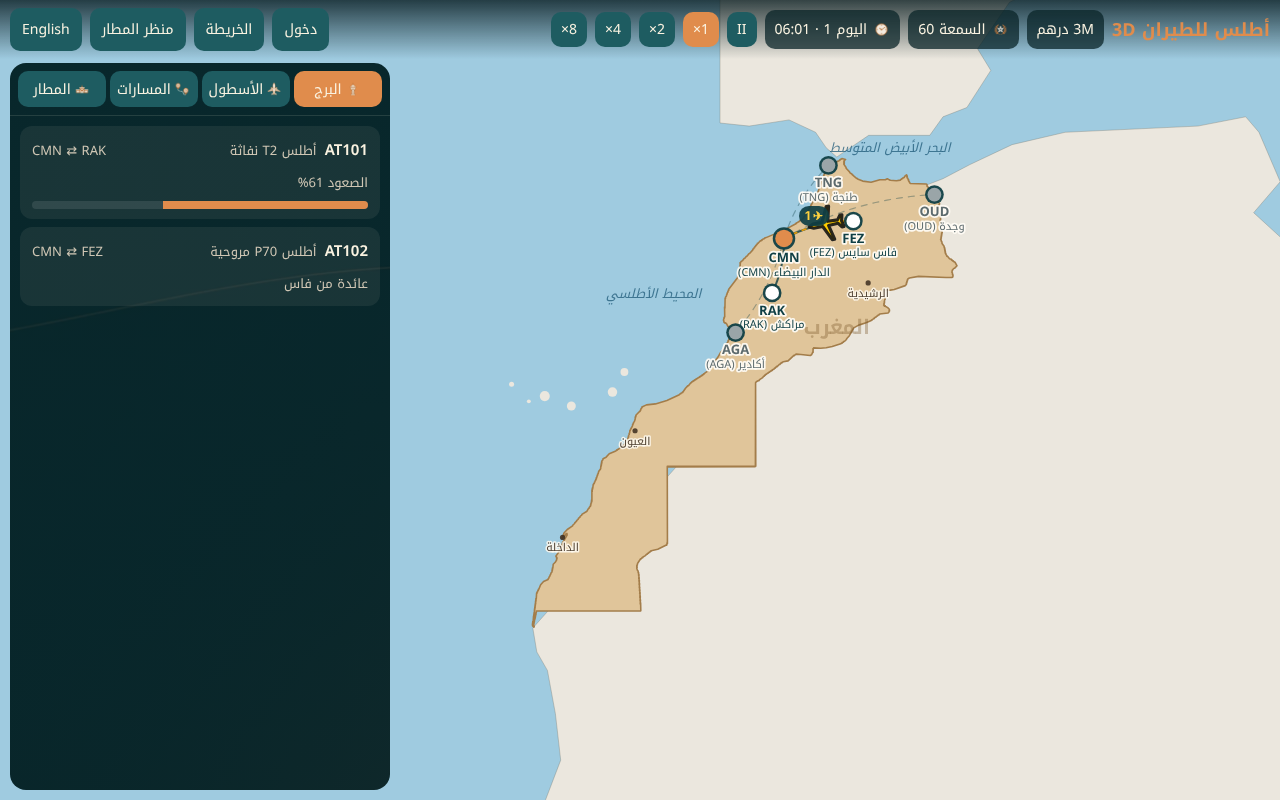
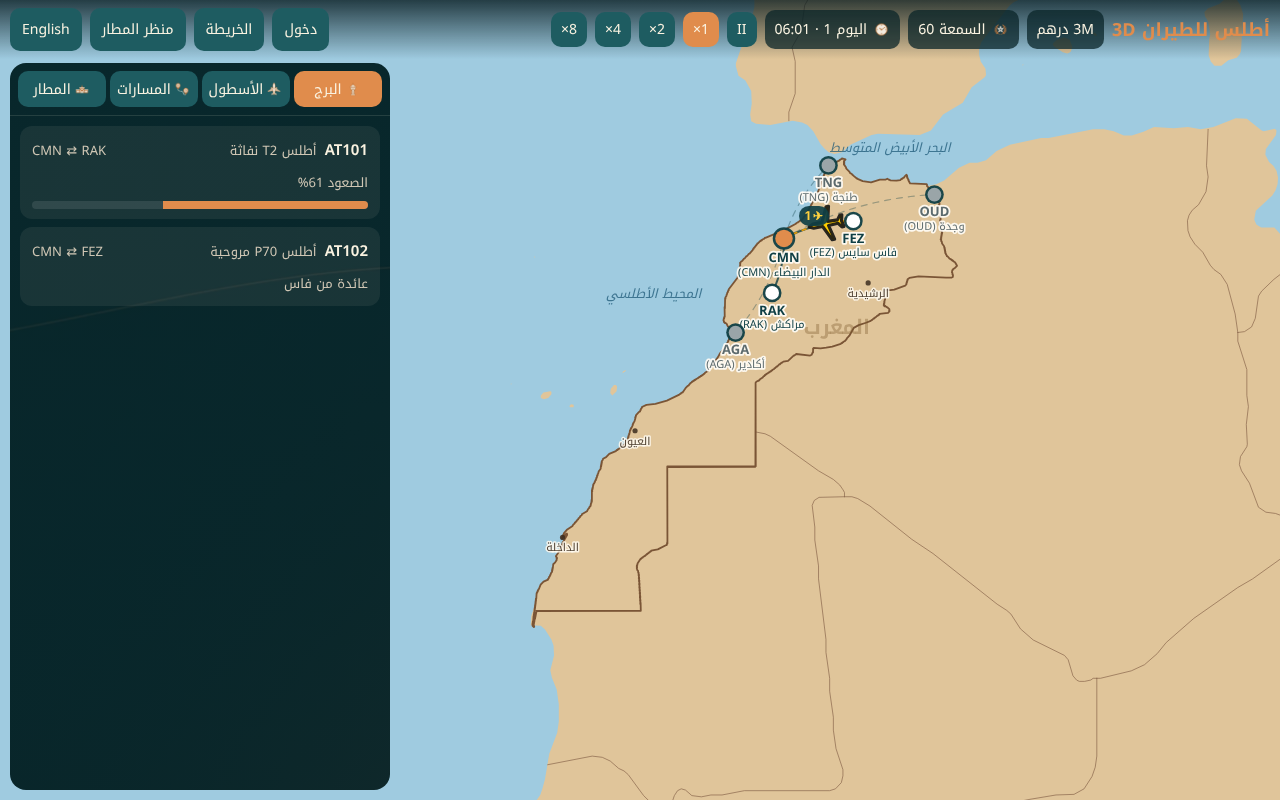
Flight map: world coastlines and country borders vectorized from the owner's world map (lon -60..70, lat -10..72); Morocco keeps its detailed outline on top, neighbours meet it without gaps
Claude-Session: https://claude.ai/code/session_01RoqHu2TiYBxYCF6HuHvMh8

diff --git a/web/js/flightmap.js b/web/js/flightmap.js
@@ -18,7 +18,7 @@ const ARC = 0.12;
 const smooth = (a, b, x) => { const k = Math.min(Math.max((x - a) / (b - a), 0), 1); return k * k * (3 - 2 * k); };
 const PLANE = new Path2D('M0,-0.5 L0.06,-0.38 L0.06,-0.12 L0.48,0.08 L0.48,0.15 L0.06,0.05 L0.05,0.33 L0.17,0.42 L0.17,0.48 L0,0.44 L-0.17,0.48 L-0.17,0.42 L-0.05,0.33 L-0.06,0.05 L-0.48,0.15 L-0.48,0.08 L-0.06,-0.12 L-0.06,-0.38 Z');
 const OUT_STATES = ['ready', 'pushback', 'taxi_out', 'holding', 'lineup', 'takeoff'];
-const C = { sea: '#9fcbe0', land: '#ebe7de', morocco: '#e0c59a', border: '#a37d4a', route: 'rgba(15,63,69,0.8)', routeOff: 'rgba(15,63,69,0.35)',
+const C = { sea: '#9fcbe0', land: '#e0c59a', morocco: '#e0c59a', border: '#7a5536', countryLine: 'rgba(140,104,78,0.9)', route: 'rgba(15,63,69,0.8)', routeOff: 'rgba(15,63,69,0.35)',
   trail: '#e89b00', plane: '#ffcc00', planeSel: '#ff7a1a', ground: '#d9dee0' };
 
 /** Quadratic arc between two 2D points [x, y] at k in [0, 1]: point and tangent. Bulges to one side so both legs share it. */
@@ -33,7 +33,7 @@ export class FlightMap {
   constructor(canvas, sim) {
     this.cv = canvas; this.g = canvas.getContext('2d'); this.sim = sim;
     this.alpha = 0; this.far = 0; this.hits = []; this.v = new THREE.Vector3();
-    this.geo = new Geo(DB.mapOutline);
+    this.geo = new Geo(DB.mapOutline, DB.world);
     this.km = {}; for (const a of Object.values(DB.airports)) this.km[a.code] = toKm(a.lonlat);
   }
   resize(w, h) {
@@ -132,10 +132,13 @@ export class FlightMap {
       if (fill) { g.fillStyle = fill; g.fill(); } if (stroke) { g.strokeStyle = stroke; g.lineWidth = lw; g.lineJoin = 'round'; g.stroke(); }
     };
     g.fillStyle = C.sea; g.fillRect(0, 0, this.W, this.H);
-    poly(this.geo.neighbours, C.land, 'rgba(120,120,110,0.35)', 1);
-    poly(this.geo.spain, C.land, 'rgba(120,120,110,0.35)', 1);
-    for (const c of this.geo.canaries) { const [x, y] = P(c.c); g.beginPath(); g.arc(x, y, c.r * V.s, 0, Math.PI * 2); g.fillStyle = C.land; g.fill(); }
-    poly(this.geo.morocco, C.morocco, C.border, 1.6);
+    // World land (all coast loops in one even-odd path: lakes and seas inside land stay open), country borders.
+    g.beginPath();
+    for (const loop of this.geo.coast) loop.forEach((p, i) => { const [x, y] = P(p); i ? g.lineTo(x, y) : g.moveTo(x, y); });
+    g.fillStyle = C.land; g.fill('evenodd');
+    g.strokeStyle = C.countryLine; g.lineWidth = 0.8; g.lineJoin = 'round';
+    for (const l of this.geo.borders) { g.beginPath(); l.forEach((p, i) => { const [x, y] = P(p); i ? g.lineTo(x, y) : g.moveTo(x, y); }); g.stroke(); }
+    poly(this.geo.morocco, C.morocco, C.border, 1.8);
 
     // Labels: seas, country, cities.
     g.textAlign = 'center'; g.textBaseline = 'middle';

diff --git a/web/js/geo.js b/web/js/geo.js
@@ -1,17 +1,10 @@
-// Geography for the flight map: Morocco's outline (data/maps/morocco.json, traced
-// from the owner's map), the surrounding sea and land, cities, and a flat
+// Geography for the flight map: Morocco's outline (data/maps/morocco.json) and the world's
+// coasts and borders (data/maps/world.json), both traced from the owner's maps, cities, and a flat
 // projection to kilometres (equirectangular around 31.5°N, accurate to a few %).
 const LAT0 = 31.5, LON0 = -7.6, KX = 111.32 * Math.cos(LAT0 * Math.PI / 180), KY = 110.57;
 
 /** lon/lat (degrees) -> map kilometres (x east, y north). */
 export const toKm = ([lon, lat]) => [(lon - LON0) * KX, (lat - LAT0) * KY];
-
-// Coastlines of the neighbours, coarse (lon, lat). Only used as background.
-const SPAIN_PORTUGAL = [[-10, 46], [-10, 37.1], [-8.9, 37.0], [-7.4, 37.2], [-6.4, 36.8], [-6.0, 36.3], [-5.6, 36.0], [-5.35, 36.15], [-4.4, 36.7],
-  [-2.1, 36.7], [-1.6, 37.3], [-0.7, 37.6], [0.2, 38.8], [-0.3, 39.5], [0.9, 41.0], [3.2, 42.0], [3.2, 46]];
-const ALGERIA_COAST = [[-2.2, 35.1], [-1.6, 35.3], [-0.6, 35.75], [1.0, 36.4], [3.0, 36.8], [8, 37.0], [9.8, 37.3], [10.3, 36.8], [11.1, 35.2], [10.1, 34.2], [11.5, 33.1], [15.2, 32.3], [19.0, 30.3], [20.1, 32.0], [25, 31.6], [40, 31.6], [40, 0]];
-const MAURITANIA_COAST = [[-17.05, 20.77], [-16.9, 20.0], [-16.5, 19.4], [-16.2, 18.0], [-16.0, 16.5], [-16.8, 14.7], [-16.5, 10], [-13, 5], [40, 0]];
-const CANARIES = [[-13.6, 29.05, 14], [-14.05, 28.4, 17], [-15.6, 27.95, 16], [-16.6, 28.27, 18], [-17.2, 28.1, 7], [-17.85, 28.65, 9]];   // lon, lat, radius km
 
 export const CITIES = [
   { key: 'map_city_rabat', ll: [-6.84, 34.02], capital: true },
@@ -25,12 +18,10 @@ export const CITIES = [
 export const SEAS = [{ key: 'map_sea_atlantic', ll: [-12.5, 31.5] }, { key: 'map_sea_med', ll: [-3.6, 36.25] }];
 
 export class Geo {
-  constructor(outline) {
+  /** outline: Morocco (lon/lat); world: {coast: closed loops, borders: polylines} vectorized from the owner's world map. */
+  constructor(outline, world) {
     this.morocco = outline.map(toKm);
-    // Neighbouring land (Algeria, Mauritania): their coasts, closed far to the south-east and back to
-    // Saidia through Morocco's interior (Morocco is drawn on top, so its border is exact).
-    this.neighbours = [...ALGERIA_COAST, ...MAURITANIA_COAST.slice().reverse()].map(toKm);
-    this.spain = SPAIN_PORTUGAL.map(toKm);
-    this.canaries = CANARIES.map(([lo, la, r]) => ({ c: toKm([lo, la]), r }));
+    this.coast = (world ? world.coast : []).map(l => l.map(toKm));
+    this.borders = (world ? world.borders : []).map(l => l.map(toKm));
   }
 }

diff --git a/web/js/core.js b/web/js/core.js
@@ -15,7 +15,7 @@ async function getJSON(name) {
   throw new Error('Cannot load ' + name);
 }
 
-export const DB = { airports: {}, home: 'CMN', ty: null, types: {}, dests: {}, mapOutline: [] };
+export const DB = { airports: {}, home: 'CMN', ty: null, types: {}, dests: {}, mapOutline: [], world: null };
 const LANG = { ar: {}, en: {} };
 export const Loc = { current: 'ar', listeners: [] };
 
@@ -24,6 +24,7 @@ export async function loadAll() {
   DB.ty = await getJSON('data/tycoon.json');
   await loadModelSlots(getJSON);
   DB.mapOutline = (await getJSON('data/maps/morocco.json')).outline;
+  DB.world = await getJSON('data/maps/world.json');
   LANG.ar = await getJSON('localization/ar.json');
   LANG.en = await getJSON('localization/en.json');
   DB.home = world.home_airport;

diff --git a/tools/vectorize_world.py b/tools/vectorize_world.py
@@ -1,0 +1,124 @@
+import sys, json, numpy as np
+from collections import deque, defaultdict
+from PIL import Image
+src, out = sys.argv[1], sys.argv[2]
+a = np.asarray(Image.open(src).convert('RGBA')).astype(int); H, W = a.shape[:2]
+PPD = W / 360.0                                   # pixels per degree (equirectangular, full world)
+LON0, LON1, LAT0, LAT1 = -60, 70, -10, 72
+x0, x1 = int((LON0 + 180) * PPD), int((LON1 + 180) * PPD); y0, y1 = int((90 - LAT1) * PPD), int((90 - LAT0) * PPD)
+c = a[y0:y1, x0:x1]; h, w = c.shape[:2]
+opaque = c[..., 3] > 128
+border_px = opaque & (c[..., 0] < 205)
+land = np.zeros((h + 2, w + 2), bool); land[1:-1, 1:-1] = opaque          # 1 px sea frame closes every coast loop
+cty = np.zeros((h + 2, w + 2), bool); cty[1:-1, 1:-1] = opaque & ~border_px
+# label countries (4-connected) on land without border pixels
+lab = np.zeros(land.shape, np.int32); n = 0
+for yy, xx in zip(*np.nonzero(cty)):
+    if lab[yy, xx]: continue
+    n += 1; q = deque([(yy, xx)]); lab[yy, xx] = n
+    while q:
+        y, x = q.popleft()
+        for dy, dx in ((1, 0), (-1, 0), (0, 1), (0, -1)):
+            Y, X = y + dy, x + dx
+            if cty[Y, X] and not lab[Y, X]: lab[Y, X] = n; q.append((Y, X))
+# hand border pixels to a neighbouring country (dilation), so countries tile the land
+for _ in range(6):
+    miss = land & (lab == 0)
+    if not miss.any(): break
+    for dy, dx in ((1, 0), (-1, 0), (0, 1), (0, -1)):
+        sh = np.roll(np.roll(lab, dy, 0), dx, 1); take = miss & (lab == 0) & (sh > 0); lab[take] = sh[take]
+print('countries/islands labelled:', n)
+MOROCCO_POINTS = [(-7.59, 33.37), (-13.2, 27.15), (-15.93, 23.7), (-4.42, 31.93), (-6.84, 34.02), (-9.41, 30.33), (-11.67, 26.74)]
+mlabels = set()
+for lo, la in MOROCCO_POINTS:
+    X, Y = int((lo + 180) * PPD) - x0 + 1, int((90 - la) * PPD) - y0 + 1
+    win = lab[Y - 2:Y + 3, X - 2:X + 3]; v = win[win > 0]
+    if v.size: mlabels.add(int(np.bincount(v).argmax()))
+print('Morocco labels in the world image:', sorted(mlabels))
+hole = np.isin(lab, list(mlabels)); lab[hole] = 0; land[hole] = False
+for _ in range(3):                                 # neighbours (Algeria, Mauritania) close the gap to Morocco's outline
+    for dy, dx in ((1, 0), (-1, 0), (0, 1), (0, -1)):
+        sh = np.roll(np.roll(lab, dy, 0), dx, 1); take = hole & (lab == 0) & (sh > 0); lab[take] = sh[take]; land[take] = True
+# edges on the pixel-corner lattice; coast edges are directed with land on the left (y down)
+coast, bord = defaultdict(list), defaultdict(list)
+def add(D, p, q): D[p].append(q); D[q].append(p)
+L = land; A = lab
+for y in range(1, L.shape[0]):                     # horizontal edges between rows y-1 (top) and y (bottom)
+    top, bot, a0, a1 = L[y - 1], L[y], A[y - 1], A[y]
+    for x in np.nonzero(top & ~bot)[0]: coast[(x, y)].append((x + 1, y))       # land above: go east
+    for x in np.nonzero(bot & ~top)[0]: coast[(x + 1, y)].append((x, y))       # land below: go west
+    for x in np.nonzero(top & bot & (a0 != a1) & (a0 > 0) & (a1 > 0))[0]: add(bord, (x, y), (x + 1, y))
+for x in range(1, L.shape[1]):                     # vertical edges between columns x-1 (left) and x (right)
+    lf, rt, a0, a1 = L[:, x - 1], L[:, x], A[:, x - 1], A[:, x]
+    for y in np.nonzero(rt & ~lf)[0]: coast[(x, y)].append((x, y + 1))         # land right: go south
+    for y in np.nonzero(lf & ~rt)[0]: coast[(x, y + 1)].append((x, y))         # land left: go north
+    for y in np.nonzero(lf & rt & (a0 != a1) & (a0 > 0) & (a1 > 0))[0]: add(bord, (x, y), (x, y + 1))
+def loops(D):
+    out = {p: list(v) for p, v in D.items()}; res = []
+    for s0 in list(out):
+        while out[s0]:
+            ch = [s0]; p = s0; q = out[s0].pop(0)
+            while True:
+                ch.append(q)
+                if q == s0: break
+                d = (q[0] - p[0], q[1] - p[1]); cand = out[q]
+                if len(cand) > 1:          # corner-touching pixels: take the left-most turn
+                    cand.sort(key=lambda r: -(d[0] * (r[1] - q[1]) - d[1] * (r[0] - q[0])))
+                p, q = q, cand.pop(0)
+            res.append(ch)
+    return res
+def chains(D):
+    used = set(); res = []
+    key = lambda p, q: (p, q) if p < q else (q, p)
+    starts = [p for p in D if len(D[p]) != 2] + list(D)
+    for s in starts:
+        for nb in D[s]:
+            if key(s, nb) in used: continue
+            ch = [s]; p, q = s, nb
+            while True:
+                used.add(key(p, q)); ch.append(q)
+                if len(D[q]) != 2 and q != s: break
+                nxt = [r for r in D[q] if key(q, r) not in used]
+                if not nxt: break
+                p, q = q, nxt[0]
+            res.append(ch)
+    return res
+def rdp(P, eps):
+    P = np.asarray(P, float)
+    if len(P) < 3: return P
+    keep = np.zeros(len(P), bool); keep[0] = keep[-1] = True; st = [(0, len(P) - 1)]
+    while st:
+        i, j = st.pop()
+        if j <= i + 1: continue
+        A_, B_ = P[i], P[j]; d = B_ - A_; nn = np.hypot(*d)
+        seg = P[i + 1:j]
+        dist = np.hypot(*(seg - A_).T) if nn == 0 else np.abs(d[0] * (seg[:, 1] - A_[1]) - d[1] * (seg[:, 0] - A_[0])) / nn
+        k = int(dist.argmax())
+        if dist[k] > eps: keep[i + 1 + k] = True; st += [(i, i + 1 + k), (i + 1 + k, j)]
+    return P[keep]
+def smooth(P):        # one pass of corner cutting to remove the pixel staircase
+    P = np.asarray(P, float)
+    if len(P) < 3: return P
+    closed = np.allclose(P[0], P[-1])
+    Q = [P[0]] if not closed else []
+    for i in range(len(P) - 1): Q += [0.75 * P[i] + 0.25 * P[i + 1], 0.25 * P[i] + 0.75 * P[i + 1]]
+    if not closed: Q.append(P[-1])
+    else: Q.append(Q[0])
+    return np.asarray(Q)
+def avg(P, k=3):     # moving average over 2k+1 lattice points (closed loops wrap), endpoints of open lines stay fixed
+    P = np.asarray(P, float); n = len(P)
+    if n < 2 * k + 3: return P
+    closed = np.allclose(P[0], P[-1])
+    if closed:
+        Q = P[:-1]; m = len(Q); R = np.array([Q[[(i + j) % m for j in range(-k, k + 1)]].mean(0) for i in range(m)]); return np.vstack([R, R[:1]])
+    R = P.copy()
+    for i in range(1, n - 1):
+        kk = min(k, i, n - 1 - i); R[i] = P[i - kk:i + kk + 1].mean(0)
+    return R
+def ll(P):
+    return [[round((x - 1 + x0) / PPD - 180, 3), round(90 - (y - 1 + y0) / PPD, 3)] for x, y in P]
+coast_loops = [ll(rdp(avg(ch), 0.18)) for ch in loops(coast) if len(ch) >= 8]
+border_lines = [ll(rdp(avg(ch), 0.18)) for ch in chains(bord) if len(ch) >= 3]
+print('coast loops', len(coast_loops), 'points', sum(map(len, coast_loops)), '| border lines', len(border_lines), 'points', sum(map(len, border_lines)))
+json.dump({'_doc': "World land and country borders for the flight map, vectorized from the owner's map (docs/reference/world_borders.png), equirectangular, region lon -60..70, lat -10..72. coast: closed loops (fill even-odd). borders: polylines between countries.",
+           'coast': coast_loops, 'borders': border_lines}, open(out, 'w'), separators=(',', ':'))

diff --git a/docs/PROJECT_LOG.md b/docs/PROJECT_LOG.md
@@ -47,6 +47,7 @@
 | 20 | **خامة العشب نسخة 2** | بلا بقع كبيرة ولا تكرار ظاهر؛ لون العشب حول المطارات صار بمتوسط لون الخامة (#496631) |
 | 21 | **خريطة الرحلات (مثل Flightradar)** | عند التصغير: المطارات بأسمائها، أقواس الخطوط، أيقونة كل طائرة في موقعها واتجاهها، الجزء المقطوع خط متصل والباقي متقطع، تجميع الطائرات على الأرض، اختيار الطائرة بالضغط، زر «الخريطة» يعرض المغرب كاملًا (`web/js/flightmap.js`) |
 | 22 | **خريطة المغرب الجغرافية** | حدود المغرب كاملة من صورتك (`data/maps/morocco.json`، مرسومة بخط الطول والعرض)، البحر والجيران وإسبانيا وجزر الكناري، المدن، المطارات بإحداثياتها الحقيقية، الطائرات بين المواقع الحقيقية، الشمال إلى الأعلى (`web/js/geo.js`) |
+| 23 | **حدود العالم** | السواحل وحدود الدول من خريطتك العالمية محوّلة إلى خطوط متجهة حادة (`data/maps/world.json`، الأداة `tools/vectorize_world.py`)، المغرب من خريطته المفصّلة فوقها بلا فجوات |
 
 ---
 
